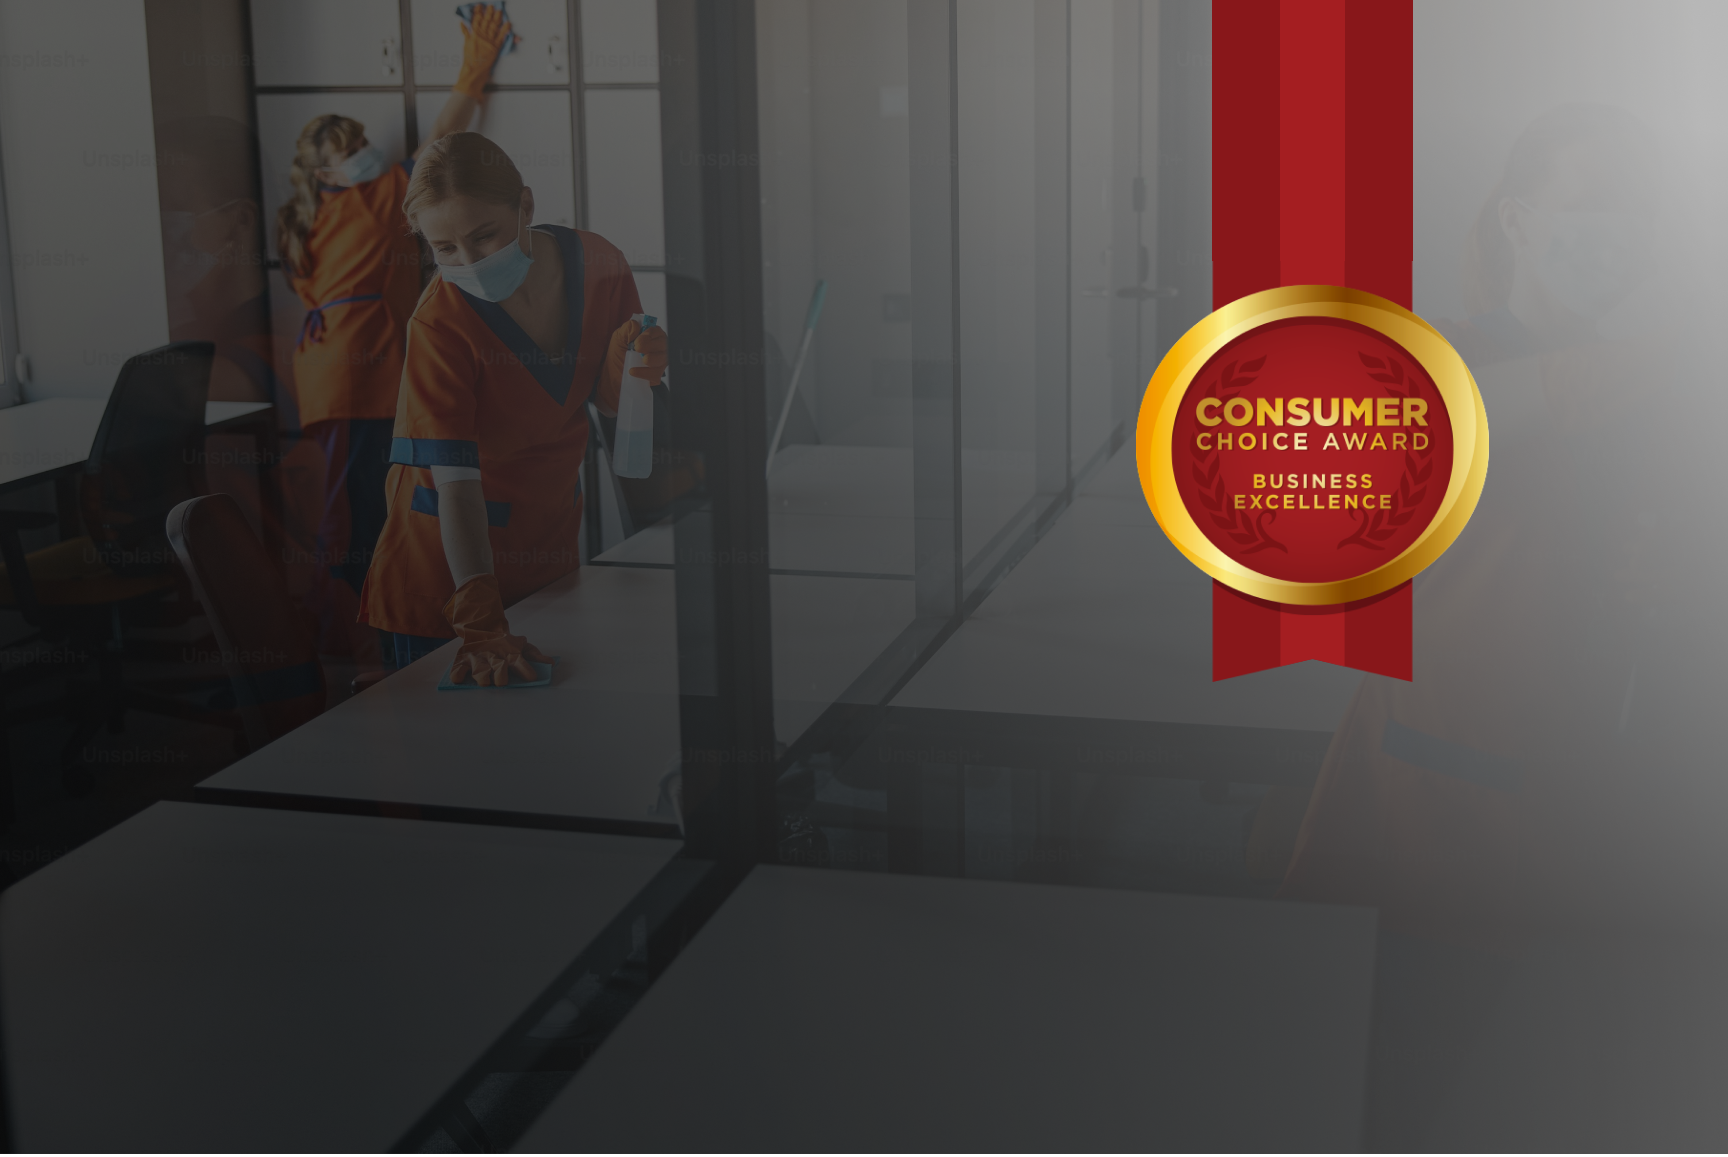
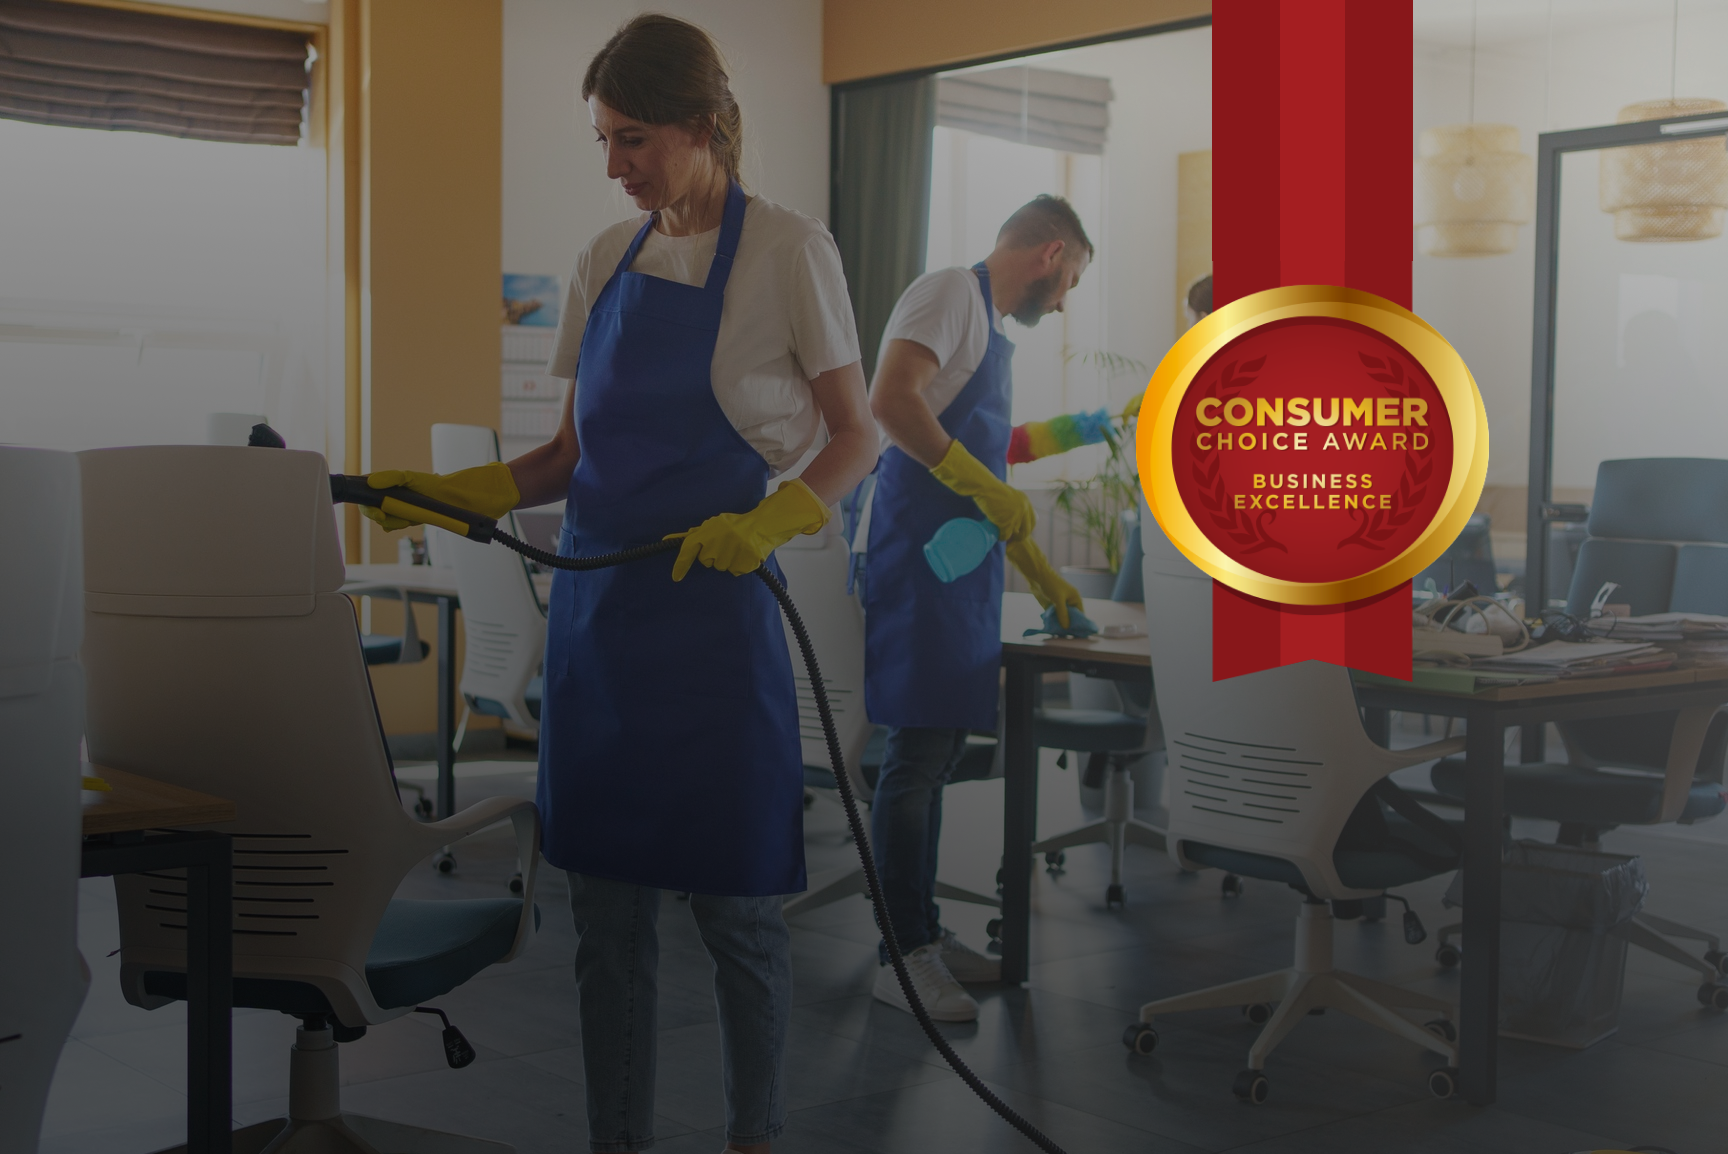
hero changes

diff --git a/src/pages/Homepage/Homepage.js b/src/pages/Homepage/Homepage.js
@@ -26,7 +26,7 @@ import './Layout.css';  // Add custom CSS for layout
 // Images for the carousel
 import slide1 from '../../images/Hero-banner-1-anu.png';
 import slide2 from '../../images/Hero-banner-2-anu.png';
-import slide3 from '../../images/Hero-banner-1-anu.png';
+import slide3 from '../../images/Hero-banner-3-anu.png';
 import frame51 from '../../images/Frame51.png'
 import frame12 from '../../images/Frame 12.png'
 import frame17 from '../../images/Frame 17.png'
